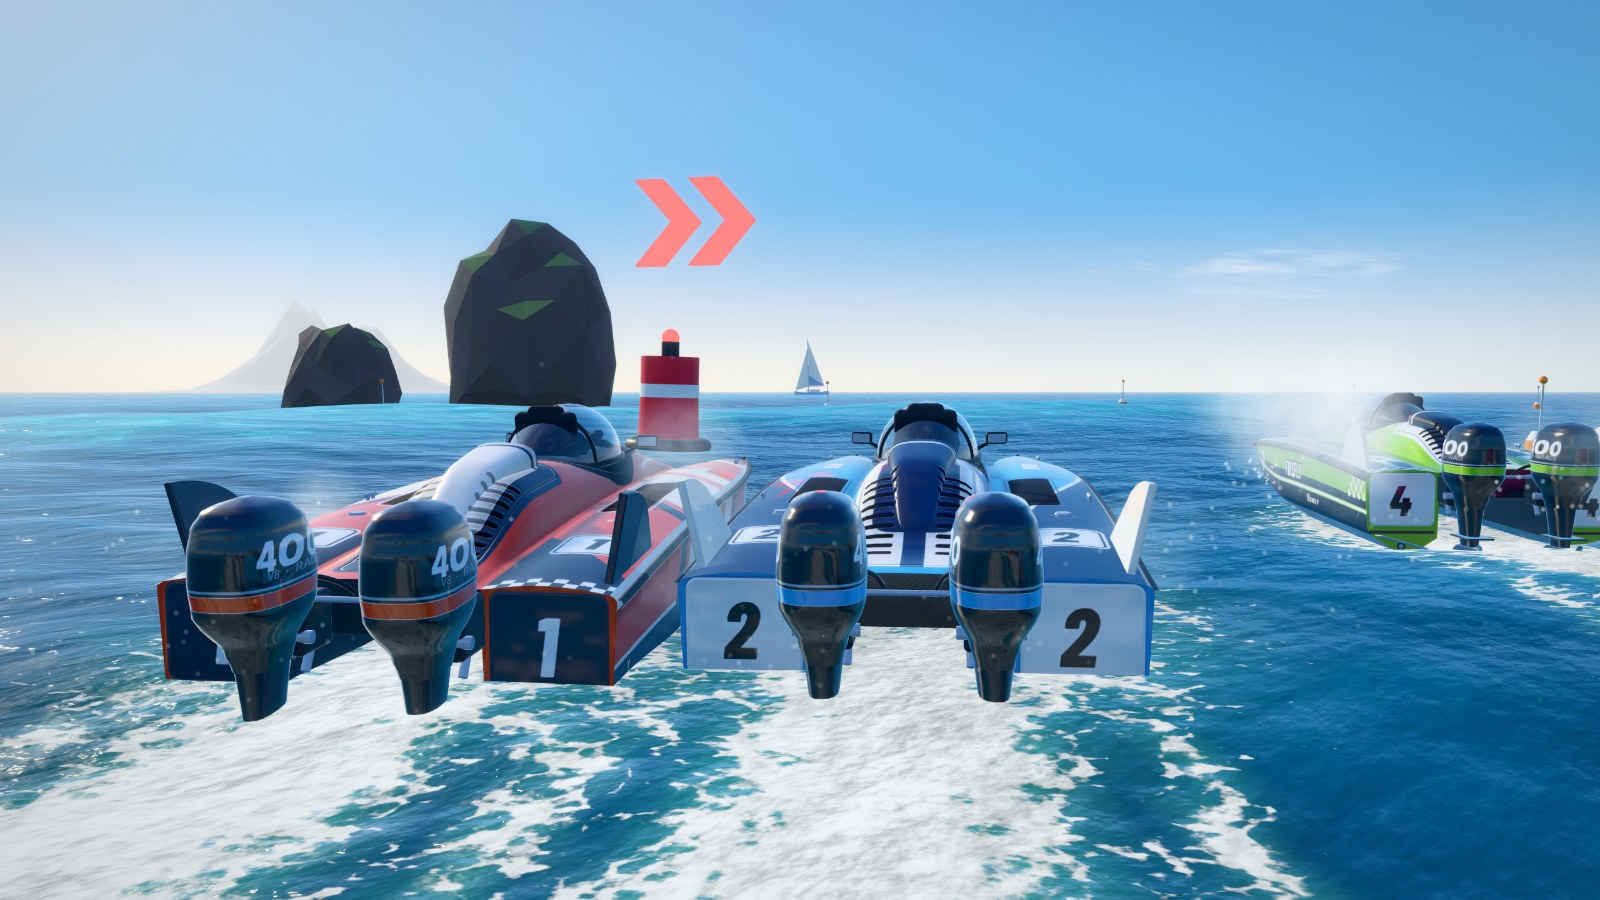
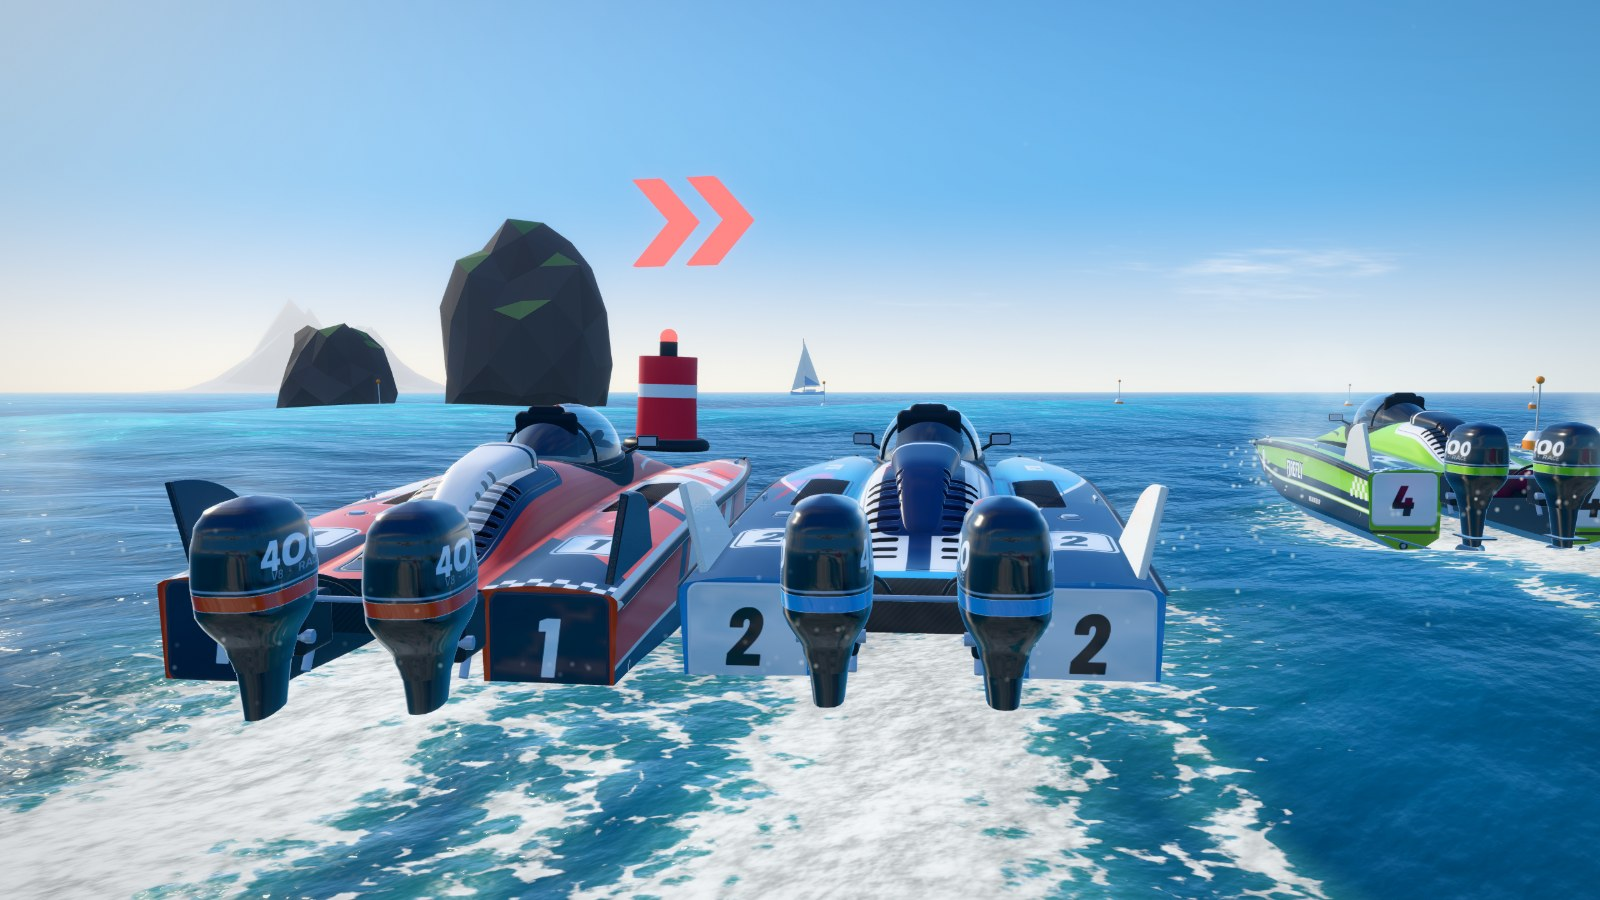
Breakwater GP: a little more light in the sea, gentler landings
Small changes only, on top of the island game as it was.

Water (assets/water.js, assets/palette.js)
- A little more sunlight through the tops of the waves and through faces
  turned toward the eye; the lit body of a wave is a shade brighter.
- Thick wake foam has more light and shade inside it.
- The glare under the sun has a second lobe, broad and faint, so the sea
  toward the sun looks wet rather than merely bright.

Handling (game/Craft.js, game/config.js)
- A landing takes at most 11 % of the boat's speed (was 14 %).
- The hull leans into a turn a little more (0.23 rad per rad/s, was 0.2).
- The brake bites a little harder (9.2, was 8.5): with landings costing
  less, 1.2 s on the brake no longer took 40 % off the speed, which is what
  tools/playtest.cjs asks of it.
- docs/spec.md: the handling table measured again with tools/handling.cjs.

Tools
- tools/screenshots.cjs: the staged shots that wait for a moment (a jump, a
  slide) drew every fifth step while they waited. They now draw seldom until
  the moment is near and often after that, which makes the wait several
  times shorter on software rendering.

Pictures regenerated. Tested on the build: playtest 71, soundtest 16,
nettest 61, all passing. Not tested: real phones, Safari, device frame
rates, real networks, and how the handling changes feel in the hand.

Claude-Session: https://claude.ai/code/session_01Wk7hSoqMXDrHed2inNSjXA

diff --git a/01-breakwater-gp/src/assets/water.js b/01-breakwater-gp/src/assets/water.js
@@ -202,7 +202,7 @@ void main() {
   float bubbles = cells * 0.42 + cells2 * 0.38 + grit * 0.5;
   float wfoam = smoothstep(0.93 - wake.r * 0.95, 1.1 - wake.r * 0.9, bubbles + wake.b * 0.22);
   // light and shade inside the foam, so thick white water has some body
-  float foamBody = 0.8 + 0.32 * grit - 0.1 * cells2;
+  float foamBody = 0.74 + 0.42 * grit - 0.16 * cells2;
   foam = max(foam, wfoam);
 
   mask = max(mask, wake.r);
@@ -232,7 +232,7 @@ void main() {
   vec2 nh = N.xz / max(length(N.xz), 1.0e-4);
   vec2 vh = V.xz / max(length(V.xz), 1.0e-4);
   float faceOn = max(dot(nh, vh), 0.0) * clamp((1.0 - N.y) * 5.0, 0.0, 1.0) * smoothstep(0.25, 0.85, hn);
-  float scatter = thin * (0.27 + 0.85 * sunward) + faceOn * (0.16 + 0.45 * sunward);
+  float scatter = thin * (0.3 + 0.92 * sunward) + faceOn * (0.18 + 0.5 * sunward);
   // caustics drifting inside the wave give that glow its texture
   float cIn = caustic((vBase - into * 1.8) * 0.05 + N.xz * 0.45, t * 0.6);
   scatter *= 0.68 + 1.3 * cIn;
@@ -288,7 +288,8 @@ void main() {
   vec3 Ng = normalize(Nr + vec3(g.x, 0.0, g.y));
   float glint = pow(max(dot(Ng, H), 0.0), uGlint.z) * uGlint.w;
   // and a broad soft glare under the sun
-  float sheen = pow(max(dot(Nr, H), 0.0), 48.0) * 0.3;
+  float NdH = max(dot(Nr, H), 0.0);
+  float sheen = pow(NdH, 48.0) * 0.3 + pow(NdH, 12.0) * 0.06;
 
   // (a painted hull a few metres away shows in the water more than bare physics allows: it is the point of having it)
   vec3 col = mix(body, refl, min(1.0, fresnel + mirrored * 0.38));

diff --git a/01-breakwater-gp/src/game/config.js b/01-breakwater-gp/src/game/config.js
@@ -34,10 +34,10 @@ export const CRAFT_TUNE = {
   sideBite: 5.0, // how sharply the hulls resist going sideways at first (1/s)
   sideHold: 17, // the most sideways push the water gives before the boat drifts (m/s²)
   slideScrub: 0.055, // forward speed lost per m/s of sideways slide (1/s)
-  brakeDrag: 8.5,
+  brakeDrag: 9.2,
   yawRate: 1.3, // rad/s at the sweet spot
   yawAlign: 1.15, // how strongly a sliding hull swings to point the way it is going (1/s)
-  bank: 0.2, // how far the hull leans into a turn (rad per rad/s of turning, at speed)
+  bank: 0.23, // how far the hull leans into a turn (rad per rad/s of turning, at speed)
   planing: 0.09, // how far the hull climbs out of the water at speed (m)
   slopePush: 0.55, // how strongly wave faces push the boat downhill
 };

diff --git a/01-breakwater-gp/src/game/Craft.js b/01-breakwater-gp/src/game/Craft.js
@@ -194,7 +194,7 @@ export class Craft {
     if (wet > 0) {
       if (wasAir && this.airTime > 0.16 && impact > 1.4) {
         this.events.push({ type: 'land', strength: clamp01((impact - 0.6) / 10), airTime: this.airTime });
-        const loss = clamp(impact * 0.014, 0, 0.14);
+        const loss = clamp(impact * 0.011, 0, 0.11);
         v.x *= 1 - loss;
         v.z *= 1 - loss;
       }

diff --git a/01-breakwater-gp/src/assets/palette.js b/01-breakwater-gp/src/assets/palette.js
@@ -30,7 +30,7 @@ export const PALETTE = {
 
   // sea
   waterDeep: c('#052c52'), // troughs, looking down into deep water
-  waterMid: c('#0a76a2'), // the lit body of a wave
+  waterMid: c('#0a7aa8'), // the lit body of a wave
   waterShallow: c('#3ad6c6'), // over sand near the islands
   waterScatter: c('#33e2cd'), // light coming through the wave tops
   foam: c('#f6fcff'),

diff --git a/01-breakwater-gp/docs/spec.md b/01-breakwater-gp/docs/spec.md
@@ -165,7 +165,7 @@ Nothing else tells the hull what attitude to take.
   thrust and the helm. All fade as the boat leaves the water.
 - No point in the water for more than 0.05 s counts as airborne. Coming down
   after more than 0.16 s with an impact over 1.4 m/s is a *landing*: strength
-  `(impact − 0.6) / 10`, and up to 14 % of horizontal speed is lost.
+  `(impact − 0.6) / 10`, and up to 11 % of horizontal speed is lost.
 - In the air the hull levels out and settles 0.07 rad bow-up, so it comes
   down tails first.
 
@@ -178,7 +178,7 @@ the current power:
 | top speed, m/s | 22.6 | 23.8 | 24.9 | 26.0 | 27.1 | 28.4 |
 | km/h | 81 | 86 | 90 | 94 | 98 | 102 |
 
-Braking adds `8.5·brake·√grip` of drag. Wave faces push the hull downhill with
+Braking adds `9.2·brake·√grip` of drag. Wave faces push the hull downhill with
 `0.55·gravity·slope`.
 
 **Going sideways.** The water resists sideways speed `u` with
@@ -202,14 +202,14 @@ What that gives, measured on a calm sea from about 100 km/h by
 | helm | result |
 | --- | --- |
 | half lock, 3 s | a clean carve: 6° of slip, 69 m radius, no speed lost |
-| full lock, 3 s | a drift: 20° of slip after 1 s, 33° after 3 s, 101 → 78 km/h, radius closing from 40 m to 31 m |
-| then let go | slip back to 14° in half a second and to nothing within a second and a half |
-| full lock and brake, 0.9 s | a tight powerslide: 34° of slip, 105 → 60 km/h, 17 m radius |
+| full lock, 3 s | a drift: 20° of slip after 1 s, 34° after 3 s, 102 → 80 km/h, radius closing from 42 m to 33 m |
+| then let go | slip back to 15° in half a second and to nothing within a second and a half |
+| full lock and brake, 0.9 s | a tight powerslide: 34° of slip, 105 → 61 km/h, 18 m radius |
 | flick one way, then the other | 15° of slip one way, 18° the other, speed kept |
 
 **Trim.** On the water the bows are asked up `0.055 rad × throttle` while
 accelerating and 0.04 rad at speed, down 0.04 rad under braking, and the hull
-is asked to lean into a turn by `0.2 rad per rad/s` of yaw rate, through the
+is asked to lean into a turn by `0.23 rad per rad/s` of yaw rate, through the
 same springs the four points make.
 
 **Inputs are smoothed**: keys ramp the helm at 3.6 /s toward a side and 6 /s

diff --git a/01-breakwater-gp/docs/techniques.md b/01-breakwater-gp/docs/techniques.md
@@ -111,7 +111,9 @@ depth buffer read.
 - **Glitter at constant size.** Sun sparkle comes from a normal-map lookup
   whose scale is chosen per pixel from `log2(distance)`, blended between the
   two nearest octaves, so facets stay a few pixels across from the bow to the
-  horizon instead of turning to noise far away.
+  horizon instead of turning to noise far away. Under the sun there is a soft
+  glare as well, in two lobes: a tight one and a broad faint one, which is what
+  makes the sea toward the sun look wet rather than merely bright.
 - **Sky reflection without a texture.** The sky is a formula
   (`skyGradient`), so the water evaluates it in the reflected direction.
 
